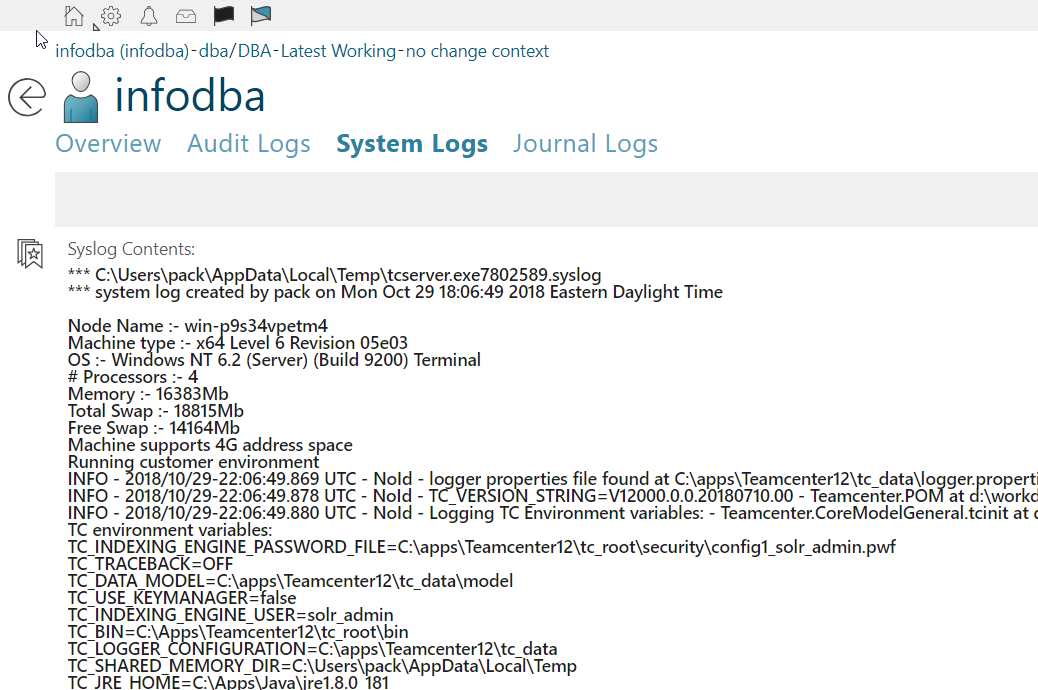
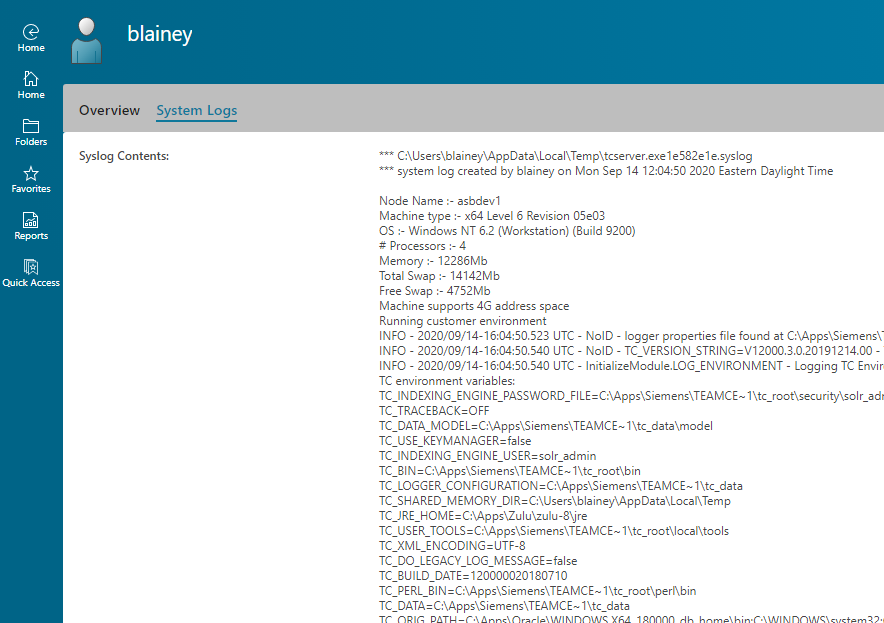
upgraded to Active Workspace 4.3

diff --git a/src/js/syslogService.js b/src/js/syslogService.js
@@ -13,9 +13,9 @@
 /**
  * @module js/syslogService
  */
-define( [ 'app', 'js/logService', 'js/eventBus', //
+define( [ 'app', 'js/eventBus', //
 'js/popupService', 'js/appCtxService' ], //
-function( app, logSvc, eventBus ) {
+function( app, eventBus ) {
     'use strict';
 
     var _syslogSvc = null;

diff --git a/README.md b/README.md
@@ -2,24 +2,17 @@
 Show contents of syslog
 
 ## version
-Active Workspace 4.0
+Active Workspace 4.3
 
 ## build
-- Create a new folder under `stage/src`, called `syslog`.
+- Create a new folder under `stage/src`, called `showSyslog`.
 
 - Download the contents of this repository to the new folder
 
-- Add an entry to `stage/src/solution/kit.json`, as shown:
-```json
-    "modules": [
-        "tc-aw-solution",
-        "syslog"
-    ],
-```
-- Use `gwtcompile` to generate a new WAR file, then deploy.
+- Use `awbuild` to build and publish to the file repo.
     
 ## usage
-After building and deploying the code, add a new page to a stylesheet.  
+After building and publishing the code, add a new page to a stylesheet.  
 
 For instance, to add to User Profile edit *Awp0UserSummary* stylesheet, and add the snippet below:
 
